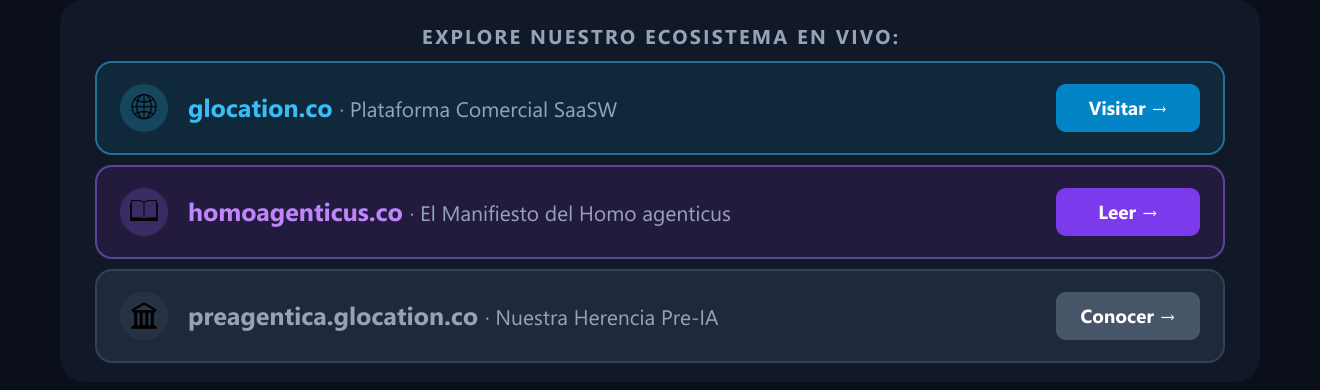
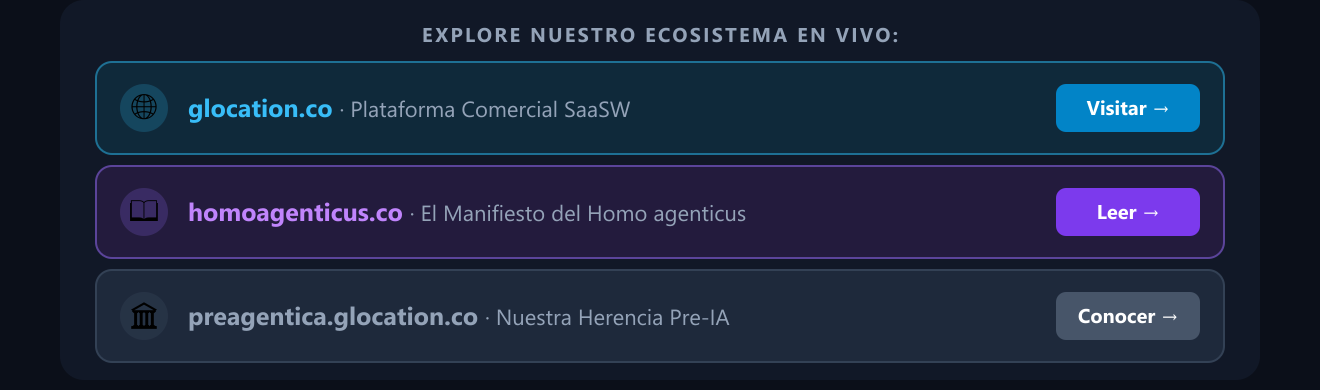
fix(email-marketing): ampliar espacio en cta diagnostico y fijar fondo en legal footer

diff --git a/scripts/build-cards-and-templates.js b/scripts/build-cards-and-templates.js
@@ -111,10 +111,10 @@ async function buildAllCards() {
     }
 
     // ==========================================
-    // 3. CARD 3 (CTA): Clean, uniform card with 24px rounded corners
+    // 3. CARD 3 (CTA): Clean, uniform card with generous breathing space
     // ==========================================
     const ctaPath = path.join(blocksDir, `saasw-03-cta-${t.id}.png`);
-    const ctaH = 630;
+    const ctaH = 680;
     const ctaCardBg = t.id === 'claro' ? '#FFFFFF' : '#0F172A';
     const ctaCardBorder = t.id === 'claro' ? '#E2E8F0' : '#1E293B';
     const ctaEyebrowColor = t.id === 'claro' ? '#0284C7' : '#38BDF8';
@@ -135,34 +135,34 @@ async function buildAllCards() {
         <rect x="60" y="0" width="1200" height="${ctaH}" rx="24" ry="24" fill="${ctaCardBg}" stroke="${ctaCardBorder}" stroke-width="1.5" />
         
         <!-- Eyebrow -->
-        <text x="660" y="90" text-anchor="middle" font-family="-apple-system, BlinkMacSystemFont, 'Segoe UI', Roboto, sans-serif" font-size="20" font-weight="700" letter-spacing="2" fill="${ctaEyebrowColor}">
+        <text x="660" y="100" text-anchor="middle" font-family="-apple-system, BlinkMacSystemFont, 'Segoe UI', Roboto, sans-serif" font-size="20" font-weight="700" letter-spacing="2.2" fill="${ctaEyebrowColor}">
           DIAGNÓSTICO COGNITIVO · 30 MINUTOS
         </text>
 
         <!-- Título -->
-        <text x="660" y="160" text-anchor="middle" font-family="-apple-system, BlinkMacSystemFont, 'Segoe UI', Roboto, sans-serif" font-size="34" font-weight="800" fill="${ctaTitleColor}">
+        <text x="660" y="180" text-anchor="middle" font-family="-apple-system, BlinkMacSystemFont, 'Segoe UI', Roboto, sans-serif" font-size="34" font-weight="800" fill="${ctaTitleColor}">
           ¿Exploramos qué proceso de su oficina TIC podemos liberar
         </text>
-        <text x="660" y="210" text-anchor="middle" font-family="-apple-system, BlinkMacSystemFont, 'Segoe UI', Roboto, sans-serif" font-size="34" font-weight="800" fill="${ctaTitleColor}">
+        <text x="660" y="230" text-anchor="middle" font-family="-apple-system, BlinkMacSystemFont, 'Segoe UI', Roboto, sans-serif" font-size="34" font-weight="800" fill="${ctaTitleColor}">
           este mes?
         </text>
 
         <!-- Descripción -->
-        <text x="660" y="280" text-anchor="middle" font-family="-apple-system, BlinkMacSystemFont, 'Segoe UI', Roboto, sans-serif" font-size="23" font-weight="400" fill="${ctaDescColor}">
+        <text x="660" y="310" text-anchor="middle" font-family="-apple-system, BlinkMacSystemFont, 'Segoe UI', Roboto, sans-serif" font-size="23" font-weight="400" fill="${ctaDescColor}">
           Agende una sesión técnica de 30 minutos. Evaluaremos uno de sus cuellos de
         </text>
-        <text x="660" y="320" text-anchor="middle" font-family="-apple-system, BlinkMacSystemFont, 'Segoe UI', Roboto, sans-serif" font-size="23" font-weight="400" fill="${ctaDescColor}">
+        <text x="660" y="355" text-anchor="middle" font-family="-apple-system, BlinkMacSystemFont, 'Segoe UI', Roboto, sans-serif" font-size="23" font-weight="400" fill="${ctaDescColor}">
           botella operativos y le entregaremos una estimación contable de ahorro y tiempos.
         </text>
 
         <!-- Botón CTA -->
-        <rect x="340" y="380" width="640" height="96" rx="16" ry="16" fill="url(#ctaBtnGrad_${t.id})" />
-        <text x="660" y="440" text-anchor="middle" font-family="-apple-system, BlinkMacSystemFont, 'Segoe UI', Roboto, sans-serif" font-size="26" font-weight="700" fill="#FFFFFF">
+        <rect x="340" y="420" width="640" height="96" rx="16" ry="16" fill="url(#ctaBtnGrad_${t.id})" />
+        <text x="660" y="480" text-anchor="middle" font-family="-apple-system, BlinkMacSystemFont, 'Segoe UI', Roboto, sans-serif" font-size="26" font-weight="700" fill="#FFFFFF">
           Agendar Diagnóstico Cognitivo (30 min) →
         </text>
 
         <!-- Subtexto -->
-        <text x="660" y="540" text-anchor="middle" font-family="-apple-system, BlinkMacSystemFont, 'Segoe UI', Roboto, sans-serif" font-size="21" font-weight="400" fill="${ctaSubtextColor}">
+        <text x="660" y="585" text-anchor="middle" font-family="-apple-system, BlinkMacSystemFont, 'Segoe UI', Roboto, sans-serif" font-size="21" font-weight="400" fill="${ctaSubtextColor}">
           Sin formularios eternos: seleccione día y hora directamente en nuestra plataforma.
         </text>
       </svg>
@@ -180,16 +180,16 @@ async function buildAllCards() {
           .eco-label { font-family: -apple-system, BlinkMacSystemFont, 'Segoe UI', Roboto, sans-serif; font-size: 20px; font-weight: 700; letter-spacing: 2.2px; fill: ${t.textMuted}; text-anchor: middle; }
           .eco-title-gloc { font-family: -apple-system, BlinkMacSystemFont, 'Segoe UI', Roboto, sans-serif; font-size: 25px; font-weight: 700; fill: ${t.btnGlocText}; }
           .eco-title-homo { font-family: -apple-system, BlinkMacSystemFont, 'Segoe UI', Roboto, sans-serif; font-size: 25px; font-weight: 700; fill: ${t.btnHomoText}; }
-          .eco-title-pre  { font-family: -apple-system, BlinkMacSystemFont, 'Segoe UI', Roboto, sans-serif; font-size: 25px; font-weight: 700; fill: ${t.btnPreText}; }
-          .eco-desc { font-family: -apple-system, BlinkMacSystemFont, 'Segoe UI', Roboto, sans-serif; font-size: 21px; font-weight: 400; fill: ${t.textMuted}; }
-          .pill-text { font-family: -apple-system, BlinkMacSystemFont, 'Segoe UI', Roboto, sans-serif; font-size: 19px; font-weight: 700; fill: #FFFFFF; text-anchor: middle; }
+          .eco-title-pre { font-family: -apple-system, BlinkMacSystemFont, 'Segoe UI', Roboto, sans-serif; font-size: 25px; font-weight: 700; fill: ${t.btnPreText}; }
+          .eco-desc { font-family: -apple-system, BlinkMacSystemFont, 'Segoe UI', Roboto, sans-serif; font-size: 22px; font-weight: 400; fill: ${t.textMuted}; }
+          .pill-text { font-family: -apple-system, BlinkMacSystemFont, 'Segoe UI', Roboto, sans-serif; font-size: 20px; font-weight: 700; fill: #FFFFFF; text-anchor: middle; }
         </style>
       </defs>
       <rect width="1320" height="390" fill="${t.outerBg}"/>
-      <rect x="60" y="0" width="1200" height="382" rx="24" ry="24" fill="${t.cardBg}"/>
+      <rect x="60" y="0" width="1200" height="380" rx="24" ry="24" fill="${t.cardBg}"/>
 
-      <!-- 1. HEADER ECOSISTEMA -->
-      <text x="660" y="44" class="eco-label">EXPLORE NUESTRO ECOSISTEMA EN VIVO:</text>
+      <!-- 1. TÍTULO ECOSISTEMA (y: 0 - 62, h=62) -->
+      <text x="660" y="42" class="eco-label">EXPLORE NUESTRO ECOSISTEMA EN VIVO:</text>
 
       <!-- 2. BOTÓN GLOCATION.CO (y=62, h=92) -->
       <g transform="translate(96, 62)">
@@ -303,9 +303,27 @@ async function buildAllCards() {
 
     await sharp(firmaBuf).extract({ left: 980, top: 66, width: 340, height: 254 })
       .png().toFile(path.join(blocksDir, `saasw-05d-boton-homoagenticus-${t.id}.png`));
+
+    // ==========================================
+    // 6. BLOCK 6: LEGAL FOOTER IMAGE (Ensures background is permanently included)
+    // ==========================================
+    const legalSvg = `
+      <svg width="1320" height="96" xmlns="http://www.w3.org/2000/svg">
+        <rect width="1320" height="96" fill="${t.outerBg}" />
+        <text x="660" y="38" text-anchor="middle" font-family="-apple-system, BlinkMacSystemFont, 'Segoe UI', Roboto, sans-serif" font-size="22" fill="${t.textMuted}">
+          © 2026 GLocation SAS · Bogotá D.C., Colombia.
+        </text>
+        <text x="660" y="68" text-anchor="middle" font-family="-apple-system, BlinkMacSystemFont, 'Segoe UI', Roboto, sans-serif" font-size="22" fill="${t.textMuted}">
+          Ha recibido este mensaje porque su entidad lidera proyectos estratégicos de tecnología.
+        </text>
+      </svg>
+    `;
+    const legalBuf = await sharp(Buffer.from(legalSvg)).png().toBuffer();
+    fs.writeFileSync(path.join(blocksDir, `saasw-06-legal-${t.id}.png`), legalBuf);
   }
 
-  console.log('✓ Cards and slices rebuilt with crisp rounded corners!');
+  console.log('✓ Cards and slices rebuilt with crisp rounded corners and baked legal background!');
 }
 
 buildAllCards();
+module.exports = { buildAllCards };

diff --git a/public/plantilla-saasw-lideres-tic-bloques-oscuro.html b/public/plantilla-saasw-lideres-tic-bloques-oscuro.html
@@ -107,9 +107,9 @@
 
             <!-- BLOQUE 3 · CTA DIAGNÓSTICO COGNITIVO (TARJETA REDONDEADA) -->
             <tr>
-              <td align="center" style="padding:0 0 22px 0 !important;margin:0 !important;line-height:0 !important;font-size:0 !important;border:0 !important;mso-line-height-rule:exactly;">
+              <td align="center" style="padding:0 0 28px 0 !important;margin:0 !important;line-height:0 !important;font-size:0 !important;border:0 !important;mso-line-height-rule:exactly;">
                 <a href="https://citas.glocation.co/?theme=light" target="_blank" rel="noopener noreferrer" style="display:block !important;border:0 !important;outline:none !important;text-decoration:none !important;margin:0 !important;padding:0 !important;line-height:0 !important;font-size:0 !important;">
-                  <img src="https://raw.githubusercontent.com/GLocation-SAS/bdr-email-marketing/main/public/email-blocks/saasw-03-cta-oscuro.png" width="660" height="315" alt="Agendar Diagnóstico Cognitivo (30 min) en citas.glocation.co" border="0" style="display:block !important;width:660px !important;max-width:100% !important;height:auto !important;border:0 !important;outline:none !important;text-decoration:none !important;margin:0 !important;padding:0 !important;-ms-interpolation-mode:bicubic;" />
+                  <img src="https://raw.githubusercontent.com/GLocation-SAS/bdr-email-marketing/main/public/email-blocks/saasw-03-cta-oscuro.png" width="660" height="340" alt="Agendar Diagnóstico Cognitivo (30 min) en citas.glocation.co" border="0" style="display:block !important;width:660px !important;max-width:100% !important;height:auto !important;border:0 !important;outline:none !important;text-decoration:none !important;margin:0 !important;padding:0 !important;-ms-interpolation-mode:bicubic;" />
                 </a>
               </td>
             </tr>
@@ -186,16 +186,10 @@
               </td>
             </tr>
 
-            <!-- LEGAL FOOTER -->
+            <!-- LEGAL FOOTER (IMAGEN CON FONDO PERMANENTE INTEGRADO) -->
             <tr>
-              <td align="center" style="padding:20px 10px 36px 10px !important;margin:0 !important;border:0 !important;">
-                <table width="600" border="0" cellspacing="0" cellpadding="0" style="max-width:600px !important;width:100% !important;margin:0 auto !important;border-collapse:collapse !important;border:0 !important;" role="presentation">
-                  <tr>
-                    <td align="center" style="font-size:11px !important;line-height:1.5 !important;font-family:-apple-system,BlinkMacSystemFont,'Segoe UI',Roboto,sans-serif !important;color:#94A3B8 !important;border:0 !important;">
-                      © 2026 GLocation SAS · Bogotá D.C., Colombia.<br />Ha recibido este mensaje porque su entidad lidera proyectos estratégicos de tecnología.
-                    </td>
-                  </tr>
-                </table>
+              <td align="center" bgcolor="#0B0F19" style="padding:14px 0 36px 0 !important;margin:0 !important;line-height:0 !important;font-size:0 !important;background-color:#0B0F19;border:0 !important;">
+                <img src="https://raw.githubusercontent.com/GLocation-SAS/bdr-email-marketing/main/public/email-blocks/saasw-06-legal-oscuro.png" width="660" height="48" alt="© 2026 GLocation SAS · Bogotá D.C., Colombia. Ha recibido este mensaje porque su entidad lidera proyectos estratégicos de tecnología." border="0" style="display:block !important;width:660px !important;max-width:100% !important;height:auto !important;border:0 !important;outline:none !important;text-decoration:none !important;margin:0 auto !important;padding:0 !important;-ms-interpolation-mode:bicubic;" />
               </td>
             </tr>
 

diff --git a/public/plantilla-saasw-lideres-tic-oscuro.html b/public/plantilla-saasw-lideres-tic-oscuro.html
@@ -107,9 +107,9 @@
 
             <!-- BLOQUE 3 · CTA DIAGNÓSTICO COGNITIVO (TARJETA REDONDEADA) -->
             <tr>
-              <td align="center" style="padding:0 0 22px 0 !important;margin:0 !important;line-height:0 !important;font-size:0 !important;border:0 !important;mso-line-height-rule:exactly;">
+              <td align="center" style="padding:0 0 28px 0 !important;margin:0 !important;line-height:0 !important;font-size:0 !important;border:0 !important;mso-line-height-rule:exactly;">
                 <a href="https://citas.glocation.co/?theme=light" target="_blank" rel="noopener noreferrer" style="display:block !important;border:0 !important;outline:none !important;text-decoration:none !important;margin:0 !important;padding:0 !important;line-height:0 !important;font-size:0 !important;">
-                  <img src="https://raw.githubusercontent.com/GLocation-SAS/bdr-email-marketing/main/public/email-blocks/saasw-03-cta-oscuro.png" width="660" height="315" alt="Agendar Diagnóstico Cognitivo (30 min) en citas.glocation.co" border="0" style="display:block !important;width:660px !important;max-width:100% !important;height:auto !important;border:0 !important;outline:none !important;text-decoration:none !important;margin:0 !important;padding:0 !important;-ms-interpolation-mode:bicubic;" />
+                  <img src="https://raw.githubusercontent.com/GLocation-SAS/bdr-email-marketing/main/public/email-blocks/saasw-03-cta-oscuro.png" width="660" height="340" alt="Agendar Diagnóstico Cognitivo (30 min) en citas.glocation.co" border="0" style="display:block !important;width:660px !important;max-width:100% !important;height:auto !important;border:0 !important;outline:none !important;text-decoration:none !important;margin:0 !important;padding:0 !important;-ms-interpolation-mode:bicubic;" />
                 </a>
               </td>
             </tr>
@@ -186,16 +186,10 @@
               </td>
             </tr>
 
-            <!-- LEGAL FOOTER -->
+            <!-- LEGAL FOOTER (IMAGEN CON FONDO PERMANENTE INTEGRADO) -->
             <tr>
-              <td align="center" style="padding:20px 10px 36px 10px !important;margin:0 !important;border:0 !important;">
-                <table width="600" border="0" cellspacing="0" cellpadding="0" style="max-width:600px !important;width:100% !important;margin:0 auto !important;border-collapse:collapse !important;border:0 !important;" role="presentation">
-                  <tr>
-                    <td align="center" style="font-size:11px !important;line-height:1.5 !important;font-family:-apple-system,BlinkMacSystemFont,'Segoe UI',Roboto,sans-serif !important;color:#94A3B8 !important;border:0 !important;">
-                      © 2026 GLocation SAS · Bogotá D.C., Colombia.<br />Ha recibido este mensaje porque su entidad lidera proyectos estratégicos de tecnología.
-                    </td>
-                  </tr>
-                </table>
+              <td align="center" bgcolor="#0B0F19" style="padding:14px 0 36px 0 !important;margin:0 !important;line-height:0 !important;font-size:0 !important;background-color:#0B0F19;border:0 !important;">
+                <img src="https://raw.githubusercontent.com/GLocation-SAS/bdr-email-marketing/main/public/email-blocks/saasw-06-legal-oscuro.png" width="660" height="48" alt="© 2026 GLocation SAS · Bogotá D.C., Colombia. Ha recibido este mensaje porque su entidad lidera proyectos estratégicos de tecnología." border="0" style="display:block !important;width:660px !important;max-width:100% !important;height:auto !important;border:0 !important;outline:none !important;text-decoration:none !important;margin:0 auto !important;padding:0 !important;-ms-interpolation-mode:bicubic;" />
               </td>
             </tr>
 

diff --git a/public/plantilla-saasw-lideres-tic-bloques-claro.html b/public/plantilla-saasw-lideres-tic-bloques-claro.html
@@ -107,9 +107,9 @@
 
             <!-- BLOQUE 3 · CTA DIAGNÓSTICO COGNITIVO (TARJETA REDONDEADA) -->
             <tr>
-              <td align="center" style="padding:0 0 22px 0 !important;margin:0 !important;line-height:0 !important;font-size:0 !important;border:0 !important;mso-line-height-rule:exactly;">
+              <td align="center" style="padding:0 0 28px 0 !important;margin:0 !important;line-height:0 !important;font-size:0 !important;border:0 !important;mso-line-height-rule:exactly;">
                 <a href="https://citas.glocation.co/?theme=light" target="_blank" rel="noopener noreferrer" style="display:block !important;border:0 !important;outline:none !important;text-decoration:none !important;margin:0 !important;padding:0 !important;line-height:0 !important;font-size:0 !important;">
-                  <img src="https://raw.githubusercontent.com/GLocation-SAS/bdr-email-marketing/main/public/email-blocks/saasw-03-cta-claro.png" width="660" height="315" alt="Agendar Diagnóstico Cognitivo (30 min) en citas.glocation.co" border="0" style="display:block !important;width:660px !important;max-width:100% !important;height:auto !important;border:0 !important;outline:none !important;text-decoration:none !important;margin:0 !important;padding:0 !important;-ms-interpolation-mode:bicubic;" />
+                  <img src="https://raw.githubusercontent.com/GLocation-SAS/bdr-email-marketing/main/public/email-blocks/saasw-03-cta-claro.png" width="660" height="340" alt="Agendar Diagnóstico Cognitivo (30 min) en citas.glocation.co" border="0" style="display:block !important;width:660px !important;max-width:100% !important;height:auto !important;border:0 !important;outline:none !important;text-decoration:none !important;margin:0 !important;padding:0 !important;-ms-interpolation-mode:bicubic;" />
                 </a>
               </td>
             </tr>
@@ -186,16 +186,10 @@
               </td>
             </tr>
 
-            <!-- LEGAL FOOTER -->
+            <!-- LEGAL FOOTER (IMAGEN CON FONDO PERMANENTE INTEGRADO) -->
             <tr>
-              <td align="center" style="padding:20px 10px 36px 10px !important;margin:0 !important;border:0 !important;">
-                <table width="600" border="0" cellspacing="0" cellpadding="0" style="max-width:600px !important;width:100% !important;margin:0 auto !important;border-collapse:collapse !important;border:0 !important;" role="presentation">
-                  <tr>
-                    <td align="center" style="font-size:11px !important;line-height:1.5 !important;font-family:-apple-system,BlinkMacSystemFont,'Segoe UI',Roboto,sans-serif !important;color:#64748B !important;border:0 !important;">
-                      © 2026 GLocation SAS · Bogotá D.C., Colombia.<br />Ha recibido este mensaje porque su entidad lidera proyectos estratégicos de tecnología.
-                    </td>
-                  </tr>
-                </table>
+              <td align="center" bgcolor="#F0F4F9" style="padding:14px 0 36px 0 !important;margin:0 !important;line-height:0 !important;font-size:0 !important;background-color:#F0F4F9;border:0 !important;">
+                <img src="https://raw.githubusercontent.com/GLocation-SAS/bdr-email-marketing/main/public/email-blocks/saasw-06-legal-claro.png" width="660" height="48" alt="© 2026 GLocation SAS · Bogotá D.C., Colombia. Ha recibido este mensaje porque su entidad lidera proyectos estratégicos de tecnología." border="0" style="display:block !important;width:660px !important;max-width:100% !important;height:auto !important;border:0 !important;outline:none !important;text-decoration:none !important;margin:0 auto !important;padding:0 !important;-ms-interpolation-mode:bicubic;" />
               </td>
             </tr>
 

diff --git a/public/plantilla-saasw-lideres-tic-bloques.html b/public/plantilla-saasw-lideres-tic-bloques.html
@@ -107,9 +107,9 @@
 
             <!-- BLOQUE 3 · CTA DIAGNÓSTICO COGNITIVO (TARJETA REDONDEADA) -->
             <tr>
-              <td align="center" style="padding:0 0 22px 0 !important;margin:0 !important;line-height:0 !important;font-size:0 !important;border:0 !important;mso-line-height-rule:exactly;">
+              <td align="center" style="padding:0 0 28px 0 !important;margin:0 !important;line-height:0 !important;font-size:0 !important;border:0 !important;mso-line-height-rule:exactly;">
                 <a href="https://citas.glocation.co/?theme=light" target="_blank" rel="noopener noreferrer" style="display:block !important;border:0 !important;outline:none !important;text-decoration:none !important;margin:0 !important;padding:0 !important;line-height:0 !important;font-size:0 !important;">
-                  <img src="https://raw.githubusercontent.com/GLocation-SAS/bdr-email-marketing/main/public/email-blocks/saasw-03-cta-claro.png" width="660" height="315" alt="Agendar Diagnóstico Cognitivo (30 min) en citas.glocation.co" border="0" style="display:block !important;width:660px !important;max-width:100% !important;height:auto !important;border:0 !important;outline:none !important;text-decoration:none !important;margin:0 !important;padding:0 !important;-ms-interpolation-mode:bicubic;" />
+                  <img src="https://raw.githubusercontent.com/GLocation-SAS/bdr-email-marketing/main/public/email-blocks/saasw-03-cta-claro.png" width="660" height="340" alt="Agendar Diagnóstico Cognitivo (30 min) en citas.glocation.co" border="0" style="display:block !important;width:660px !important;max-width:100% !important;height:auto !important;border:0 !important;outline:none !important;text-decoration:none !important;margin:0 !important;padding:0 !important;-ms-interpolation-mode:bicubic;" />
                 </a>
               </td>
             </tr>
@@ -186,16 +186,10 @@
               </td>
             </tr>
 
-            <!-- LEGAL FOOTER -->
+            <!-- LEGAL FOOTER (IMAGEN CON FONDO PERMANENTE INTEGRADO) -->
             <tr>
-              <td align="center" style="padding:20px 10px 36px 10px !important;margin:0 !important;border:0 !important;">
-                <table width="600" border="0" cellspacing="0" cellpadding="0" style="max-width:600px !important;width:100% !important;margin:0 auto !important;border-collapse:collapse !important;border:0 !important;" role="presentation">
-                  <tr>
-                    <td align="center" style="font-size:11px !important;line-height:1.5 !important;font-family:-apple-system,BlinkMacSystemFont,'Segoe UI',Roboto,sans-serif !important;color:#64748B !important;border:0 !important;">
-                      © 2026 GLocation SAS · Bogotá D.C., Colombia.<br />Ha recibido este mensaje porque su entidad lidera proyectos estratégicos de tecnología.
-                    </td>
-                  </tr>
-                </table>
+              <td align="center" bgcolor="#F0F4F9" style="padding:14px 0 36px 0 !important;margin:0 !important;line-height:0 !important;font-size:0 !important;background-color:#F0F4F9;border:0 !important;">
+                <img src="https://raw.githubusercontent.com/GLocation-SAS/bdr-email-marketing/main/public/email-blocks/saasw-06-legal-claro.png" width="660" height="48" alt="© 2026 GLocation SAS · Bogotá D.C., Colombia. Ha recibido este mensaje porque su entidad lidera proyectos estratégicos de tecnología." border="0" style="display:block !important;width:660px !important;max-width:100% !important;height:auto !important;border:0 !important;outline:none !important;text-decoration:none !important;margin:0 auto !important;padding:0 !important;-ms-interpolation-mode:bicubic;" />
               </td>
             </tr>
 

diff --git a/public/plantilla-saasw-lideres-tic-claro.html b/public/plantilla-saasw-lideres-tic-claro.html
@@ -107,9 +107,9 @@
 
             <!-- BLOQUE 3 · CTA DIAGNÓSTICO COGNITIVO (TARJETA REDONDEADA) -->
             <tr>
-              <td align="center" style="padding:0 0 22px 0 !important;margin:0 !important;line-height:0 !important;font-size:0 !important;border:0 !important;mso-line-height-rule:exactly;">
+              <td align="center" style="padding:0 0 28px 0 !important;margin:0 !important;line-height:0 !important;font-size:0 !important;border:0 !important;mso-line-height-rule:exactly;">
                 <a href="https://citas.glocation.co/?theme=light" target="_blank" rel="noopener noreferrer" style="display:block !important;border:0 !important;outline:none !important;text-decoration:none !important;margin:0 !important;padding:0 !important;line-height:0 !important;font-size:0 !important;">
-                  <img src="https://raw.githubusercontent.com/GLocation-SAS/bdr-email-marketing/main/public/email-blocks/saasw-03-cta-claro.png" width="660" height="315" alt="Agendar Diagnóstico Cognitivo (30 min) en citas.glocation.co" border="0" style="display:block !important;width:660px !important;max-width:100% !important;height:auto !important;border:0 !important;outline:none !important;text-decoration:none !important;margin:0 !important;padding:0 !important;-ms-interpolation-mode:bicubic;" />
+                  <img src="https://raw.githubusercontent.com/GLocation-SAS/bdr-email-marketing/main/public/email-blocks/saasw-03-cta-claro.png" width="660" height="340" alt="Agendar Diagnóstico Cognitivo (30 min) en citas.glocation.co" border="0" style="display:block !important;width:660px !important;max-width:100% !important;height:auto !important;border:0 !important;outline:none !important;text-decoration:none !important;margin:0 !important;padding:0 !important;-ms-interpolation-mode:bicubic;" />
                 </a>
               </td>
             </tr>
@@ -186,16 +186,10 @@
               </td>
             </tr>
 
-            <!-- LEGAL FOOTER -->
+            <!-- LEGAL FOOTER (IMAGEN CON FONDO PERMANENTE INTEGRADO) -->
             <tr>
-              <td align="center" style="padding:20px 10px 36px 10px !important;margin:0 !important;border:0 !important;">
-                <table width="600" border="0" cellspacing="0" cellpadding="0" style="max-width:600px !important;width:100% !important;margin:0 auto !important;border-collapse:collapse !important;border:0 !important;" role="presentation">
-                  <tr>
-                    <td align="center" style="font-size:11px !important;line-height:1.5 !important;font-family:-apple-system,BlinkMacSystemFont,'Segoe UI',Roboto,sans-serif !important;color:#64748B !important;border:0 !important;">
-                      © 2026 GLocation SAS · Bogotá D.C., Colombia.<br />Ha recibido este mensaje porque su entidad lidera proyectos estratégicos de tecnología.
-                    </td>
-                  </tr>
-                </table>
+              <td align="center" bgcolor="#F0F4F9" style="padding:14px 0 36px 0 !important;margin:0 !important;line-height:0 !important;font-size:0 !important;background-color:#F0F4F9;border:0 !important;">
+                <img src="https://raw.githubusercontent.com/GLocation-SAS/bdr-email-marketing/main/public/email-blocks/saasw-06-legal-claro.png" width="660" height="48" alt="© 2026 GLocation SAS · Bogotá D.C., Colombia. Ha recibido este mensaje porque su entidad lidera proyectos estratégicos de tecnología." border="0" style="display:block !important;width:660px !important;max-width:100% !important;height:auto !important;border:0 !important;outline:none !important;text-decoration:none !important;margin:0 auto !important;padding:0 !important;-ms-interpolation-mode:bicubic;" />
               </td>
             </tr>
 

diff --git a/public/plantilla-saasw-lideres-tic.html b/public/plantilla-saasw-lideres-tic.html
@@ -107,9 +107,9 @@
 
             <!-- BLOQUE 3 · CTA DIAGNÓSTICO COGNITIVO (TARJETA REDONDEADA) -->
             <tr>
-              <td align="center" style="padding:0 0 22px 0 !important;margin:0 !important;line-height:0 !important;font-size:0 !important;border:0 !important;mso-line-height-rule:exactly;">
+              <td align="center" style="padding:0 0 28px 0 !important;margin:0 !important;line-height:0 !important;font-size:0 !important;border:0 !important;mso-line-height-rule:exactly;">
                 <a href="https://citas.glocation.co/?theme=light" target="_blank" rel="noopener noreferrer" style="display:block !important;border:0 !important;outline:none !important;text-decoration:none !important;margin:0 !important;padding:0 !important;line-height:0 !important;font-size:0 !important;">
-                  <img src="https://raw.githubusercontent.com/GLocation-SAS/bdr-email-marketing/main/public/email-blocks/saasw-03-cta-claro.png" width="660" height="315" alt="Agendar Diagnóstico Cognitivo (30 min) en citas.glocation.co" border="0" style="display:block !important;width:660px !important;max-width:100% !important;height:auto !important;border:0 !important;outline:none !important;text-decoration:none !important;margin:0 !important;padding:0 !important;-ms-interpolation-mode:bicubic;" />
+                  <img src="https://raw.githubusercontent.com/GLocation-SAS/bdr-email-marketing/main/public/email-blocks/saasw-03-cta-claro.png" width="660" height="340" alt="Agendar Diagnóstico Cognitivo (30 min) en citas.glocation.co" border="0" style="display:block !important;width:660px !important;max-width:100% !important;height:auto !important;border:0 !important;outline:none !important;text-decoration:none !important;margin:0 !important;padding:0 !important;-ms-interpolation-mode:bicubic;" />
                 </a>
               </td>
             </tr>
@@ -186,16 +186,10 @@
               </td>
             </tr>
 
-            <!-- LEGAL FOOTER -->
+            <!-- LEGAL FOOTER (IMAGEN CON FONDO PERMANENTE INTEGRADO) -->
             <tr>
-              <td align="center" style="padding:20px 10px 36px 10px !important;margin:0 !important;border:0 !important;">
-                <table width="600" border="0" cellspacing="0" cellpadding="0" style="max-width:600px !important;width:100% !important;margin:0 auto !important;border-collapse:collapse !important;border:0 !important;" role="presentation">
-                  <tr>
-                    <td align="center" style="font-size:11px !important;line-height:1.5 !important;font-family:-apple-system,BlinkMacSystemFont,'Segoe UI',Roboto,sans-serif !important;color:#64748B !important;border:0 !important;">
-                      © 2026 GLocation SAS · Bogotá D.C., Colombia.<br />Ha recibido este mensaje porque su entidad lidera proyectos estratégicos de tecnología.
-                    </td>
-                  </tr>
-                </table>
+              <td align="center" bgcolor="#F0F4F9" style="padding:14px 0 36px 0 !important;margin:0 !important;line-height:0 !important;font-size:0 !important;background-color:#F0F4F9;border:0 !important;">
+                <img src="https://raw.githubusercontent.com/GLocation-SAS/bdr-email-marketing/main/public/email-blocks/saasw-06-legal-claro.png" width="660" height="48" alt="© 2026 GLocation SAS · Bogotá D.C., Colombia. Ha recibido este mensaje porque su entidad lidera proyectos estratégicos de tecnología." border="0" style="display:block !important;width:660px !important;max-width:100% !important;height:auto !important;border:0 !important;outline:none !important;text-decoration:none !important;margin:0 auto !important;padding:0 !important;-ms-interpolation-mode:bicubic;" />
               </td>
             </tr>
 

diff --git a/recursos/plantilla-saasw-lideres-tic.html b/recursos/plantilla-saasw-lideres-tic.html
@@ -107,9 +107,9 @@
 
             <!-- BLOQUE 3 · CTA DIAGNÓSTICO COGNITIVO (TARJETA REDONDEADA) -->
             <tr>
-              <td align="center" style="padding:0 0 22px 0 !important;margin:0 !important;line-height:0 !important;font-size:0 !important;border:0 !important;mso-line-height-rule:exactly;">
+              <td align="center" style="padding:0 0 28px 0 !important;margin:0 !important;line-height:0 !important;font-size:0 !important;border:0 !important;mso-line-height-rule:exactly;">
                 <a href="https://citas.glocation.co/?theme=light" target="_blank" rel="noopener noreferrer" style="display:block !important;border:0 !important;outline:none !important;text-decoration:none !important;margin:0 !important;padding:0 !important;line-height:0 !important;font-size:0 !important;">
-                  <img src="https://raw.githubusercontent.com/GLocation-SAS/bdr-email-marketing/main/public/email-blocks/saasw-03-cta-claro.png" width="660" height="315" alt="Agendar Diagnóstico Cognitivo (30 min) en citas.glocation.co" border="0" style="display:block !important;width:660px !important;max-width:100% !important;height:auto !important;border:0 !important;outline:none !important;text-decoration:none !important;margin:0 !important;padding:0 !important;-ms-interpolation-mode:bicubic;" />
+                  <img src="https://raw.githubusercontent.com/GLocation-SAS/bdr-email-marketing/main/public/email-blocks/saasw-03-cta-claro.png" width="660" height="340" alt="Agendar Diagnóstico Cognitivo (30 min) en citas.glocation.co" border="0" style="display:block !important;width:660px !important;max-width:100% !important;height:auto !important;border:0 !important;outline:none !important;text-decoration:none !important;margin:0 !important;padding:0 !important;-ms-interpolation-mode:bicubic;" />
                 </a>
               </td>
             </tr>
@@ -186,16 +186,10 @@
               </td>
             </tr>
 
-            <!-- LEGAL FOOTER -->
+            <!-- LEGAL FOOTER (IMAGEN CON FONDO PERMANENTE INTEGRADO) -->
             <tr>
-              <td align="center" style="padding:20px 10px 36px 10px !important;margin:0 !important;border:0 !important;">
-                <table width="600" border="0" cellspacing="0" cellpadding="0" style="max-width:600px !important;width:100% !important;margin:0 auto !important;border-collapse:collapse !important;border:0 !important;" role="presentation">
-                  <tr>
-                    <td align="center" style="font-size:11px !important;line-height:1.5 !important;font-family:-apple-system,BlinkMacSystemFont,'Segoe UI',Roboto,sans-serif !important;color:#64748B !important;border:0 !important;">
-                      © 2026 GLocation SAS · Bogotá D.C., Colombia.<br />Ha recibido este mensaje porque su entidad lidera proyectos estratégicos de tecnología.
-                    </td>
-                  </tr>
-                </table>
+              <td align="center" bgcolor="#F0F4F9" style="padding:14px 0 36px 0 !important;margin:0 !important;line-height:0 !important;font-size:0 !important;background-color:#F0F4F9;border:0 !important;">
+                <img src="https://raw.githubusercontent.com/GLocation-SAS/bdr-email-marketing/main/public/email-blocks/saasw-06-legal-claro.png" width="660" height="48" alt="© 2026 GLocation SAS · Bogotá D.C., Colombia. Ha recibido este mensaje porque su entidad lidera proyectos estratégicos de tecnología." border="0" style="display:block !important;width:660px !important;max-width:100% !important;height:auto !important;border:0 !important;outline:none !important;text-decoration:none !important;margin:0 auto !important;padding:0 !important;-ms-interpolation-mode:bicubic;" />
               </td>
             </tr>
 

diff --git a/scripts/generate-all-saasw-templates.js b/scripts/generate-all-saasw-templates.js
@@ -30,10 +30,11 @@ async function buildAllTemplates() {
     const b5bUrl = `${blocksBase}/saasw-05b-firma-paula-${theme}.png`;
     const b5cUrl = `${blocksBase}/saasw-05c-boton-glocation-${theme}.png`;
     const b5dUrl = `${blocksBase}/saasw-05d-boton-homoagenticus-${theme}.png`;
+    const b6Url = `${blocksBase}/saasw-06-legal-${theme}.png`;
 
     const b1Height = isDark ? 560 : 554;
     const b2Height = 465;
-    const b3Height = 315;
+    const b3Height = 340;
 
     const toolbarHtml = includeToolbar ? `
   <!-- BARRA DE ACCIÓN SUPERIOR PARA COPIAR CON ENLACES ACTIVOS -->
@@ -146,7 +147,7 @@ ${toolbarHtml}
 
             <!-- BLOQUE 3 · CTA DIAGNÓSTICO COGNITIVO (TARJETA REDONDEADA) -->
             <tr>
-              <td align="center" style="padding:0 0 22px 0 !important;margin:0 !important;line-height:0 !important;font-size:0 !important;border:0 !important;mso-line-height-rule:exactly;">
+              <td align="center" style="padding:0 0 28px 0 !important;margin:0 !important;line-height:0 !important;font-size:0 !important;border:0 !important;mso-line-height-rule:exactly;">
                 <a href="https://citas.glocation.co/?theme=light" target="_blank" rel="noopener noreferrer" style="display:block !important;border:0 !important;outline:none !important;text-decoration:none !important;margin:0 !important;padding:0 !important;line-height:0 !important;font-size:0 !important;">
                   <img src="${b3Url}" width="660" height="${b3Height}" alt="Agendar Diagnóstico Cognitivo (30 min) en citas.glocation.co" border="0" style="display:block !important;width:660px !important;max-width:100% !important;height:auto !important;border:0 !important;outline:none !important;text-decoration:none !important;margin:0 !important;padding:0 !important;-ms-interpolation-mode:bicubic;" />
                 </a>
@@ -225,16 +226,10 @@ ${toolbarHtml}
               </td>
             </tr>
 
-            <!-- LEGAL FOOTER -->
+            <!-- LEGAL FOOTER (IMAGEN CON FONDO PERMANENTE INTEGRADO) -->
             <tr>
-              <td align="center" style="padding:20px 10px 36px 10px !important;margin:0 !important;border:0 !important;">
-                <table width="600" border="0" cellspacing="0" cellpadding="0" style="max-width:600px !important;width:100% !important;margin:0 auto !important;border-collapse:collapse !important;border:0 !important;" role="presentation">
-                  <tr>
-                    <td align="center" style="font-size:11px !important;line-height:1.5 !important;font-family:-apple-system,BlinkMacSystemFont,'Segoe UI',Roboto,sans-serif !important;color:${textMuted} !important;border:0 !important;">
-                      © 2026 GLocation SAS · Bogotá D.C., Colombia.<br />Ha recibido este mensaje porque su entidad lidera proyectos estratégicos de tecnología.
-                    </td>
-                  </tr>
-                </table>
+              <td align="center" bgcolor="${outerBg}" style="padding:14px 0 36px 0 !important;margin:0 !important;line-height:0 !important;font-size:0 !important;background-color:${outerBg};border:0 !important;">
+                <img src="${b6Url}" width="660" height="48" alt="© 2026 GLocation SAS · Bogotá D.C., Colombia. Ha recibido este mensaje porque su entidad lidera proyectos estratégicos de tecnología." border="0" style="display:block !important;width:660px !important;max-width:100% !important;height:auto !important;border:0 !important;outline:none !important;text-decoration:none !important;margin:0 auto !important;padding:0 !important;-ms-interpolation-mode:bicubic;" />
               </td>
             </tr>
 

diff --git a/scripts/test-cta.js b/scripts/test-cta.js
@@ -110,3 +110,4 @@ async function testCtaDesigns() {
 }
 
 testCtaDesigns().catch(console.error);
+
